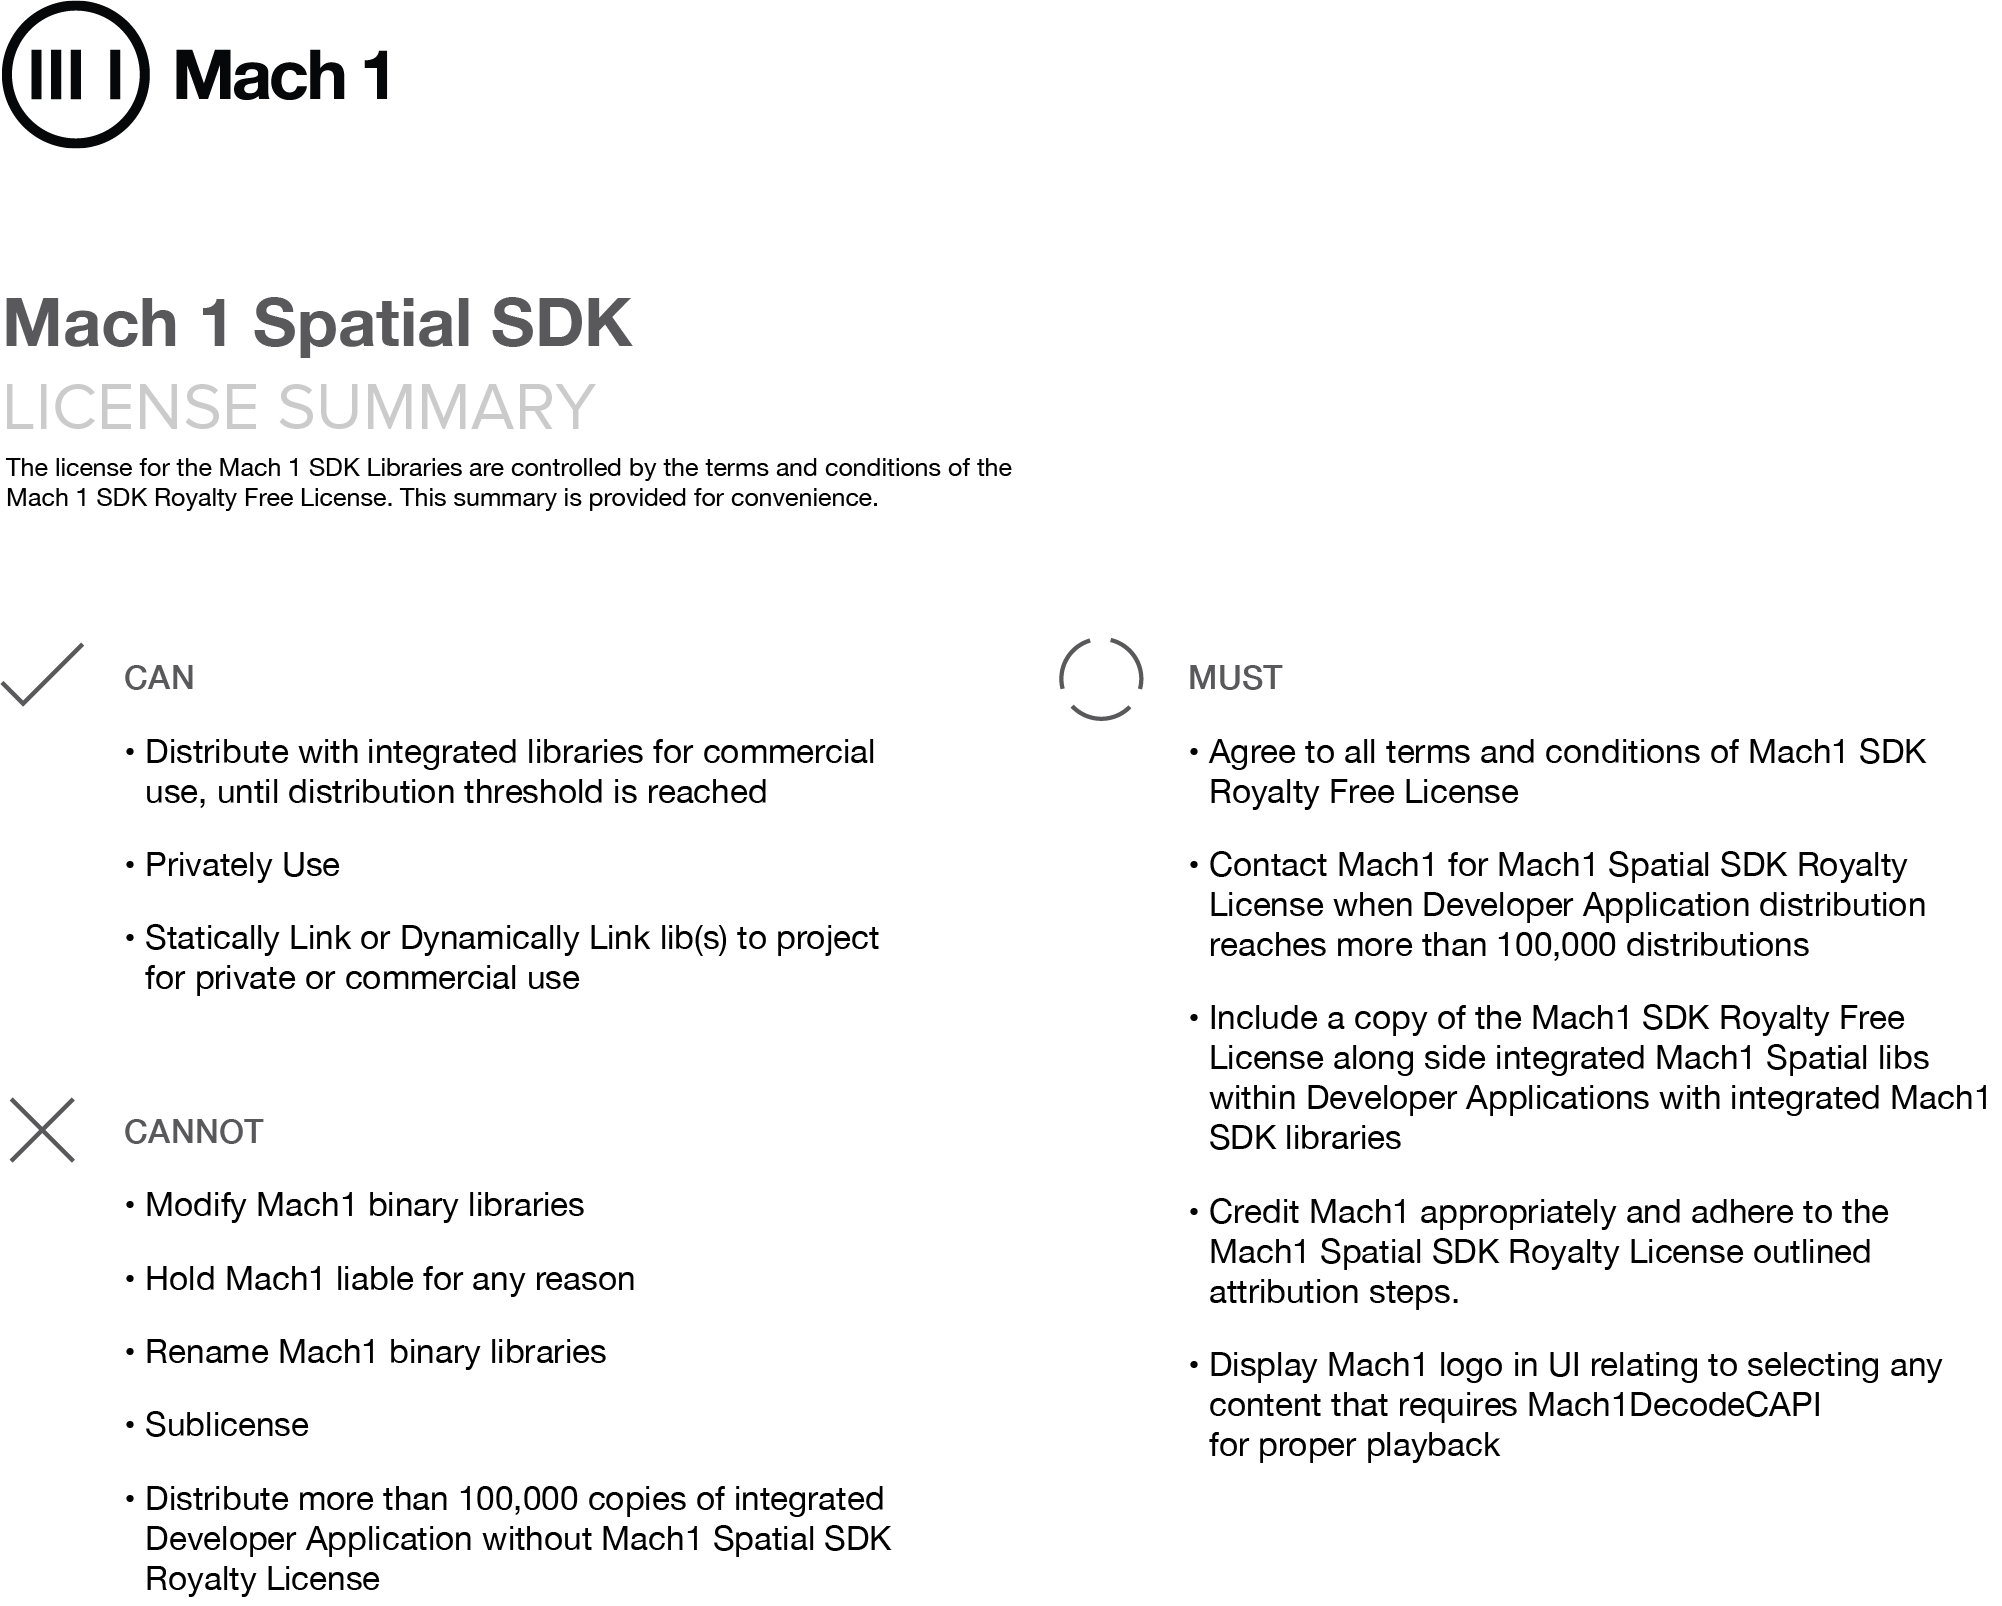
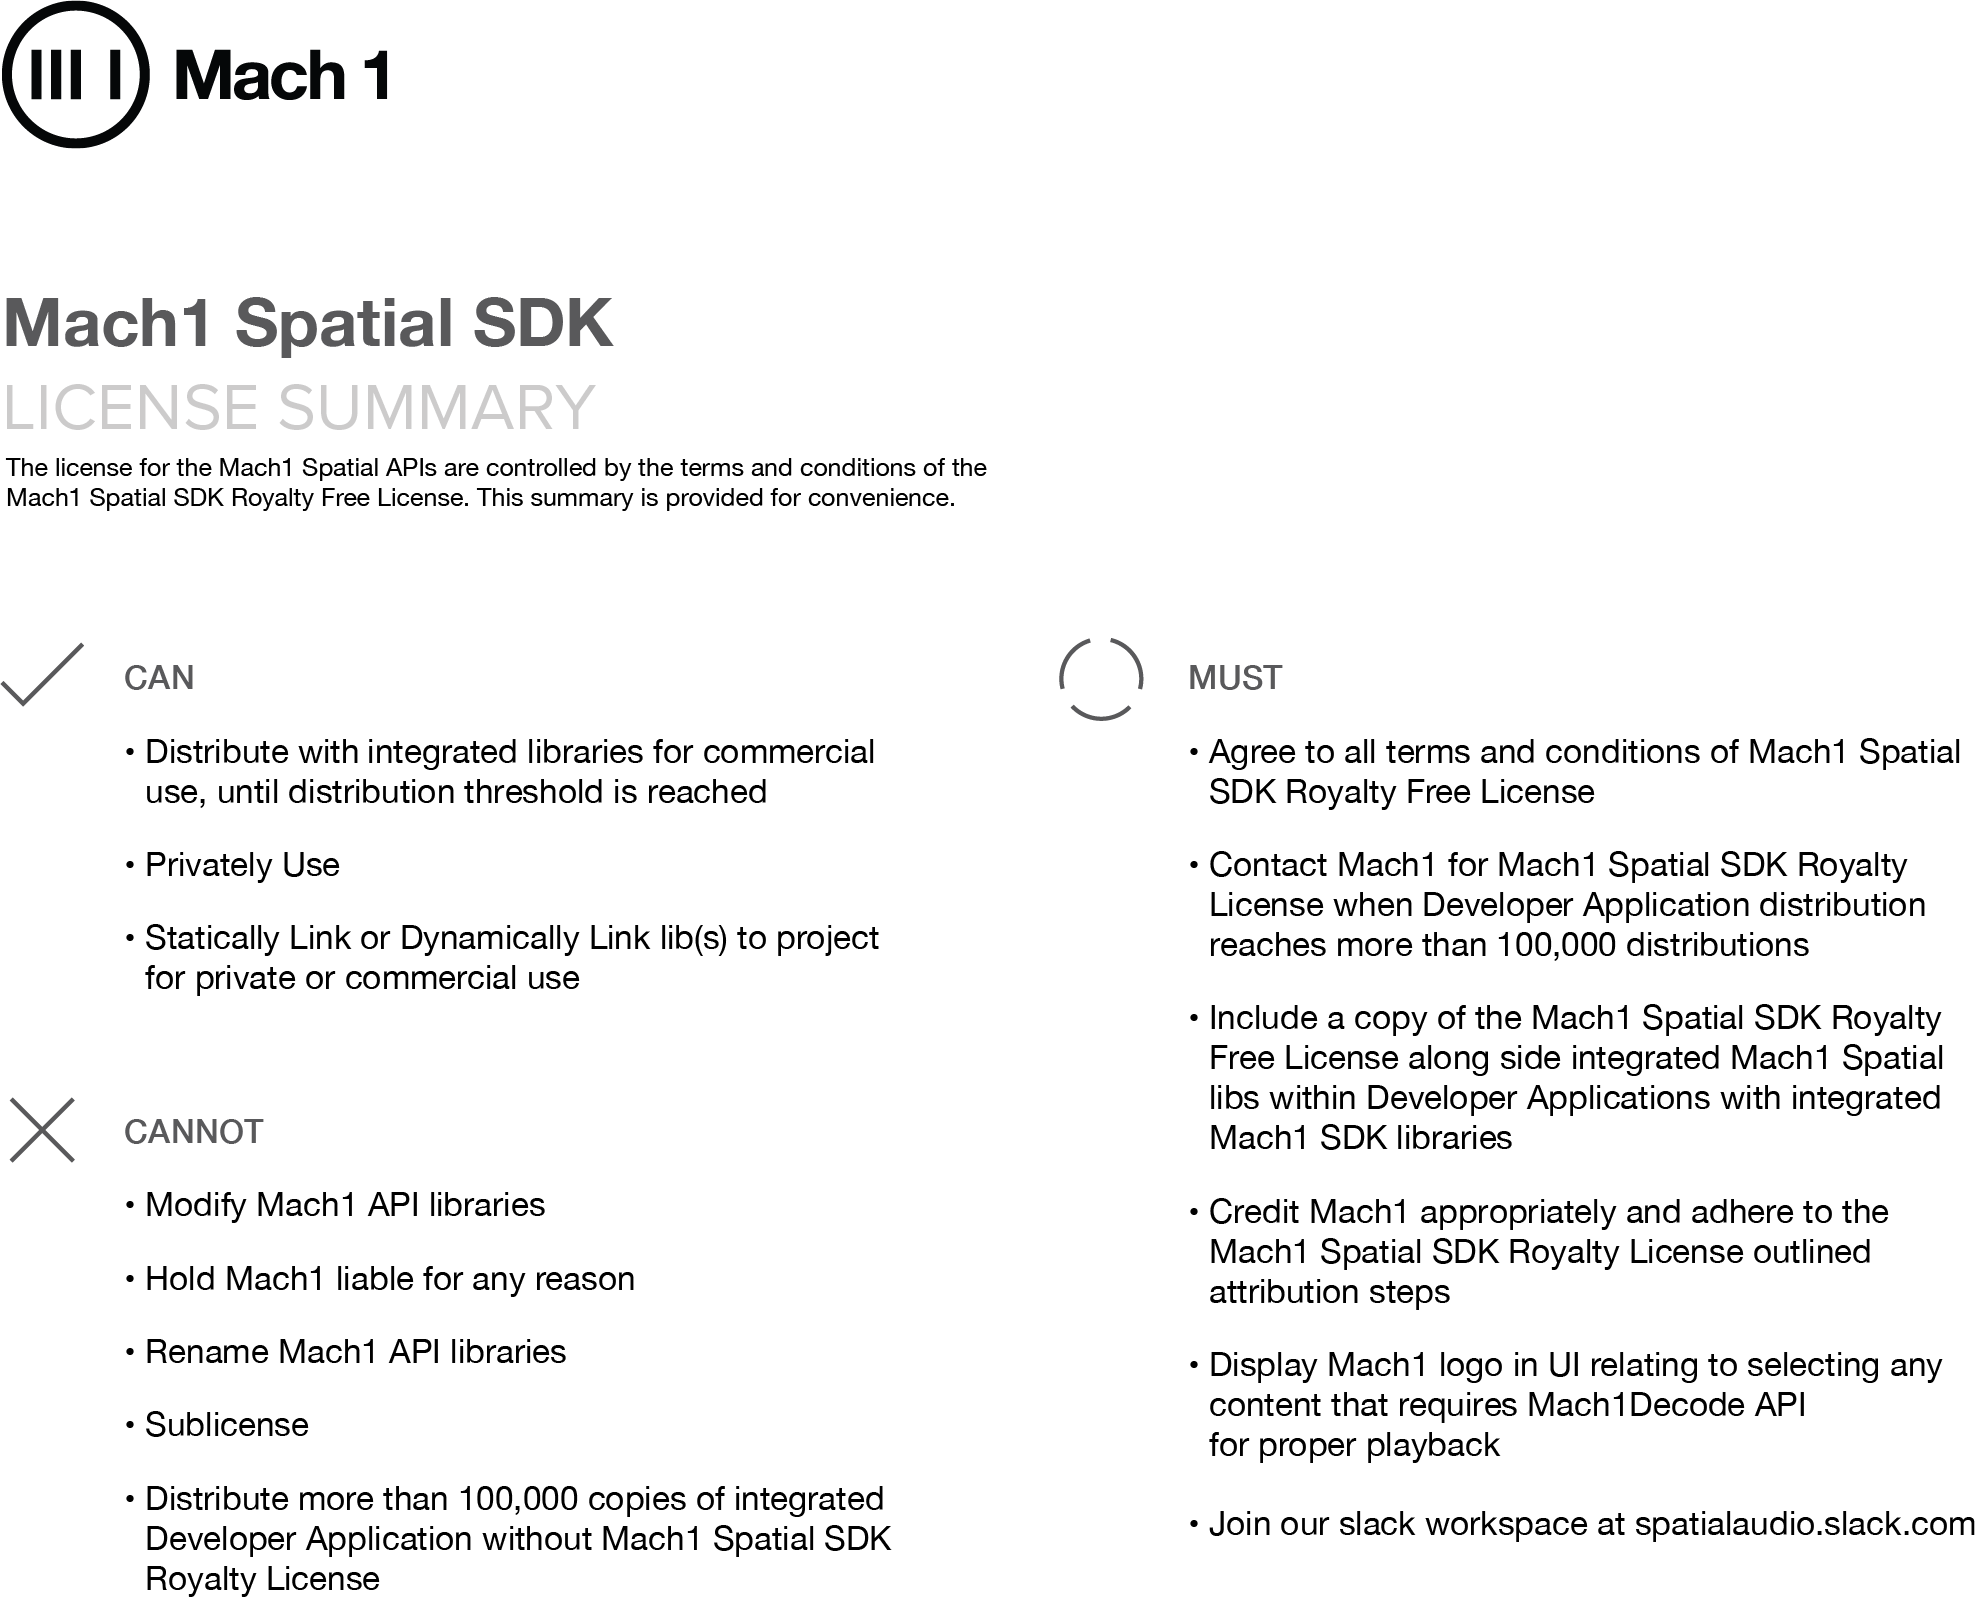
general: minor update for readme

diff --git a/license/README.md b/license/README.md
@@ -1,5 +1,11 @@
 ## Mach1 Spatial SDK Royalty Free License ##
 
+***IMPORTANT NOTICE: PLEASE READ CAREFULLY BEFORE DOWNLOADING, INSTALLING OR USING THE MACH1 SPATIAL SDK:***
+ - BY CLICKING ON THE “ACCEPT” BUTTON, OR BY DOWNLOADING, INSTALLING, OR USING THE MACH1 SPATIAL SDK, YOU AGREE TO THE TERMS OF THIS AGREEMENT, AND ALL INCORPORATED TERMS INCLUDING THE PRIVACY POLICY, AS APPLICABLE, WHICH WILL BIND YOU.
+- YOU MUST JOIN THE SPATIALAUDIO.SLACK.COM WORKSPACE TO KEEP IN TOUCH ABOUT THIS LICENSE AND MOST RECENT FEATURES ABOUT THE MACH1 SPATIAL SDK.
+- The most current version of the MACH1 SPATIAL SDK ROYALTY FREE LICENSE will be posted at www.mach1.tech/license. If the Current Version has a more recent effective date than this document, then this document is replaced by the Currnt Version and by clicking on the appropriate button below, or by downloading, installing, activating or using any of the SDK, or any other update method Mach1 may choose, you agree to be bound by the Current Version. You may not use an old version of any SDK if you have not agreed to the Current Version.
+ - IF YOU DO NOT AGREE TO THE TERMS OF THIS AGREEMENT, WE WILL NOT LICENSE THE MACH1 SPATIAL SDK TO YOU AND YOU MUST DISCONTINUE THE INSTALLATION OR DOWNLOAD PROCESS OR CEASE USE OF THE MACH1 SPATIAL SDK.
+
 ### SUMMARY ###
 ![Mach1 Spatial SDK Royalty Free License](Mach1-LicenseDiagram.png "Mach1 Spatial SDK Royalty Free License")
 
